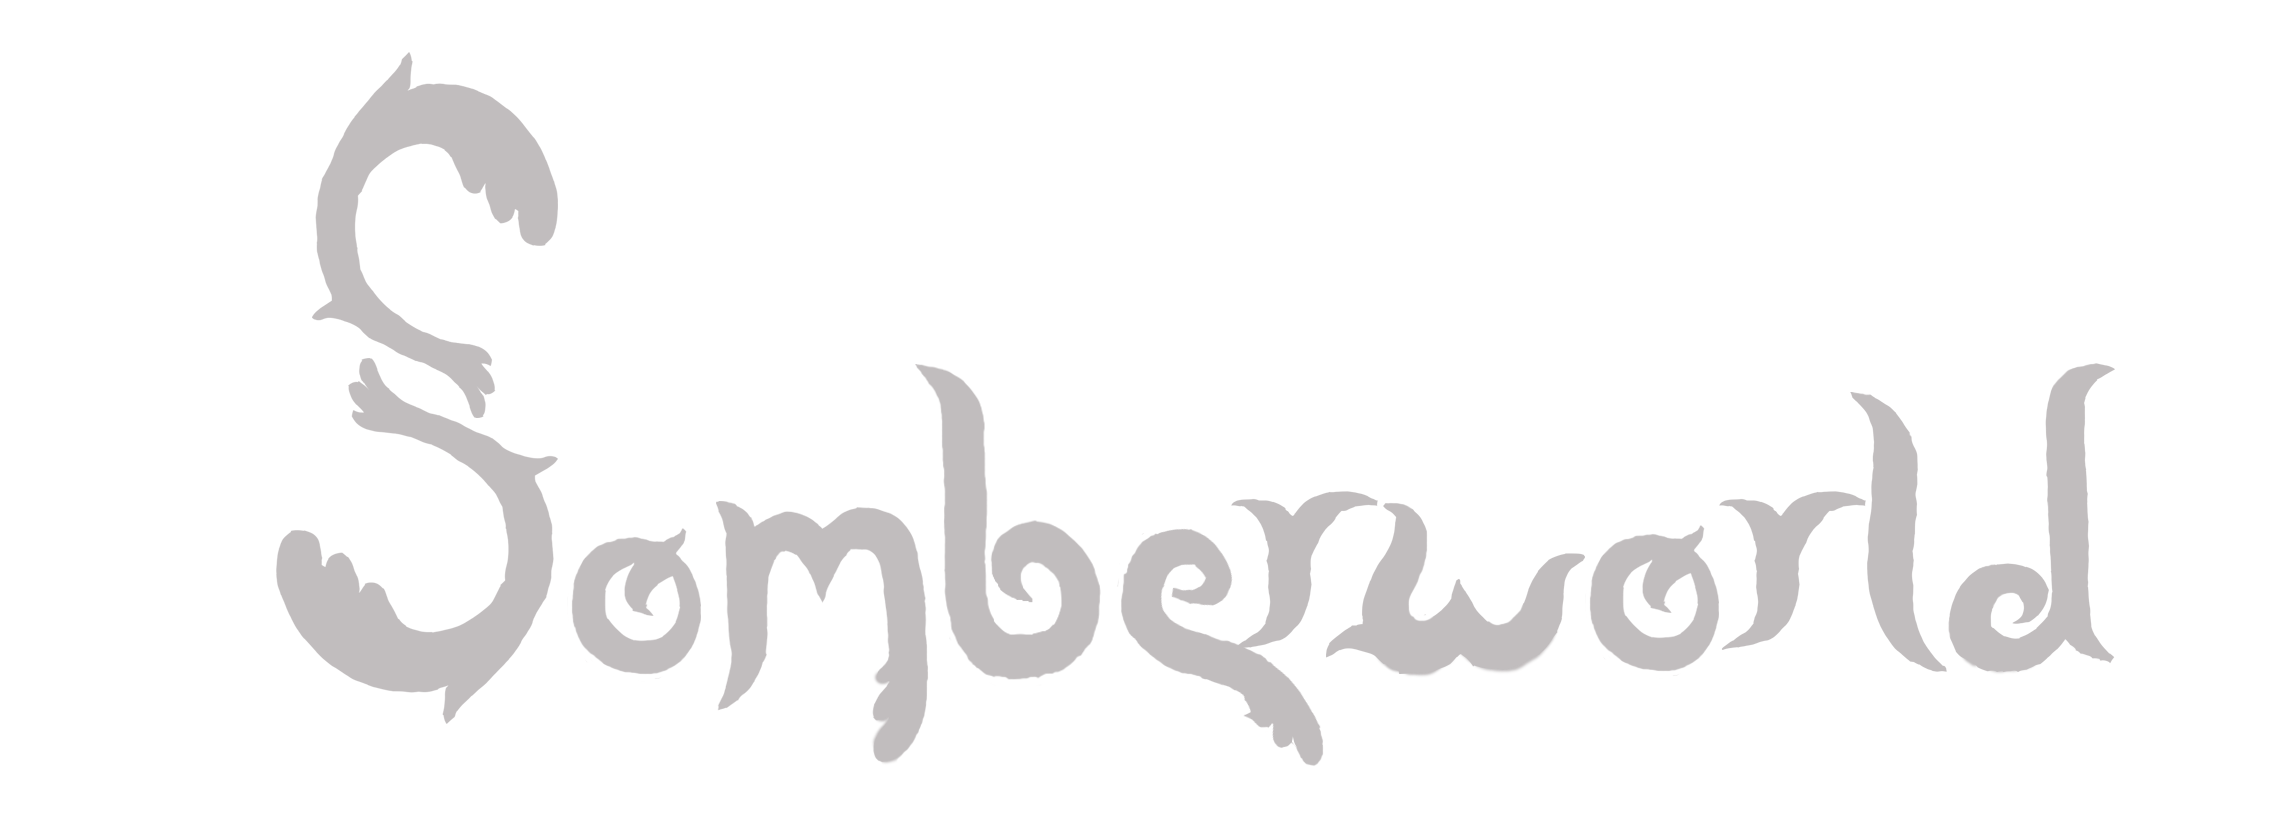
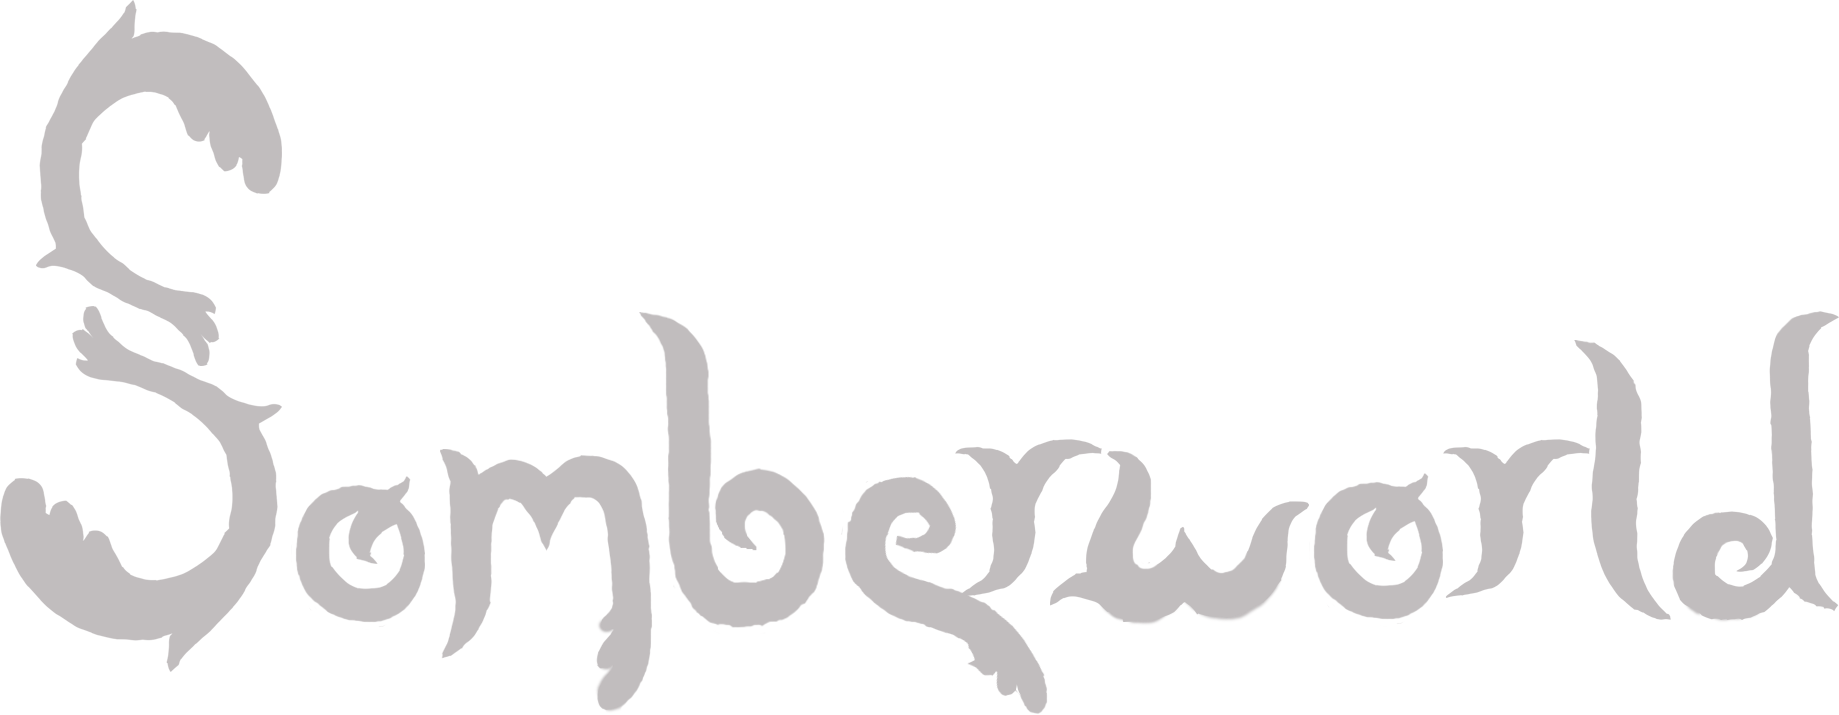
Finally established a neat responsiveness to resized browser windows

Changed region(s): [[0.0, 0.0, 1.0, 1.0], [0.217, 0.8923, 0.248, 0.9231]]

diff --git a/index.html b/index.html
@@ -26,16 +26,13 @@
 
 	<!-- Introduction -->
 
-		<div class="col-sm-12 text-center" style="padding-top:10vh;height:100vh">
-			<img class="img-responsive center-block" src="introduction.png" id="introName">
+		<div class="col-sm-12 text-center" style="padding-top:10vh;height:90vh">
+			<img class="img-responsive center-block" style="width:60%;display:block" src="introduction.png" id="introName">
       <span id="title">
 			</span>
-      <span>
         <p id="textIntro">Koda and Bijou - There<br>Bon Iver - Need a Forest Fire<br>Elohim - Xanax</p>
-      </span>
-      <a id="introArrowLink"><span class="glyphicon glyphicon-triangle-bottom" aria-hidden="true" id="introArrow"></span></a>
 		</div>
-
+    <span class="glyphicon glyphicon-triangle-bottom text-center" aria-hidden="true" id="introArrow"></span>
 		<div class="col-sm-12" style="height:50vh">
 		</div>
 

diff --git a/js/bootstrap.js b/js/bootstrap.js
@@ -2396,12 +2396,18 @@ var iterationTitlesRight = function(){
 	}
 };
 
+var blinkingArrow = function(){
+  $("#introArrow").fadeTo(500,1);
+  $("#introArrow").fadeTo(500,0);
+};
+
 $(document).ready(
 	function(){
 		$("#introName").delay(1000).fadeIn(500);
     $("#textIntro").delay(3000).fadeIn(1000);
 		setInterval(iterationTitlesRight,2500);
-		$("#introArrow").delay(8000).fadeTo(500,1);
+    $("#introArrow").delay(4500).fadeTo(500,1);
+    setInterval(blinkingArrow,1500);
 	}
 );
 

diff --git a/css/style.css b/css/style.css
@@ -124,19 +124,16 @@ padding-top: 5px;
 #introArrow{
 	color:#e2e2e2;
 	font-size: 20px;
-	display: block;
 	opacity: 0;
+	display: block;
 }
 
-#introArrow:hover{
+/**#introArrow:hover{
 	color: #b30000;
 	opacity: 0.8;
 	-webkit-transition-property: color,opacity;
 	-webkit-transition-duration: 1s;
-}
-#introArrowLink:hover{
-	text-decoration: none;
-}
+}*/
 
 #introName{
 	min-width:500px;
